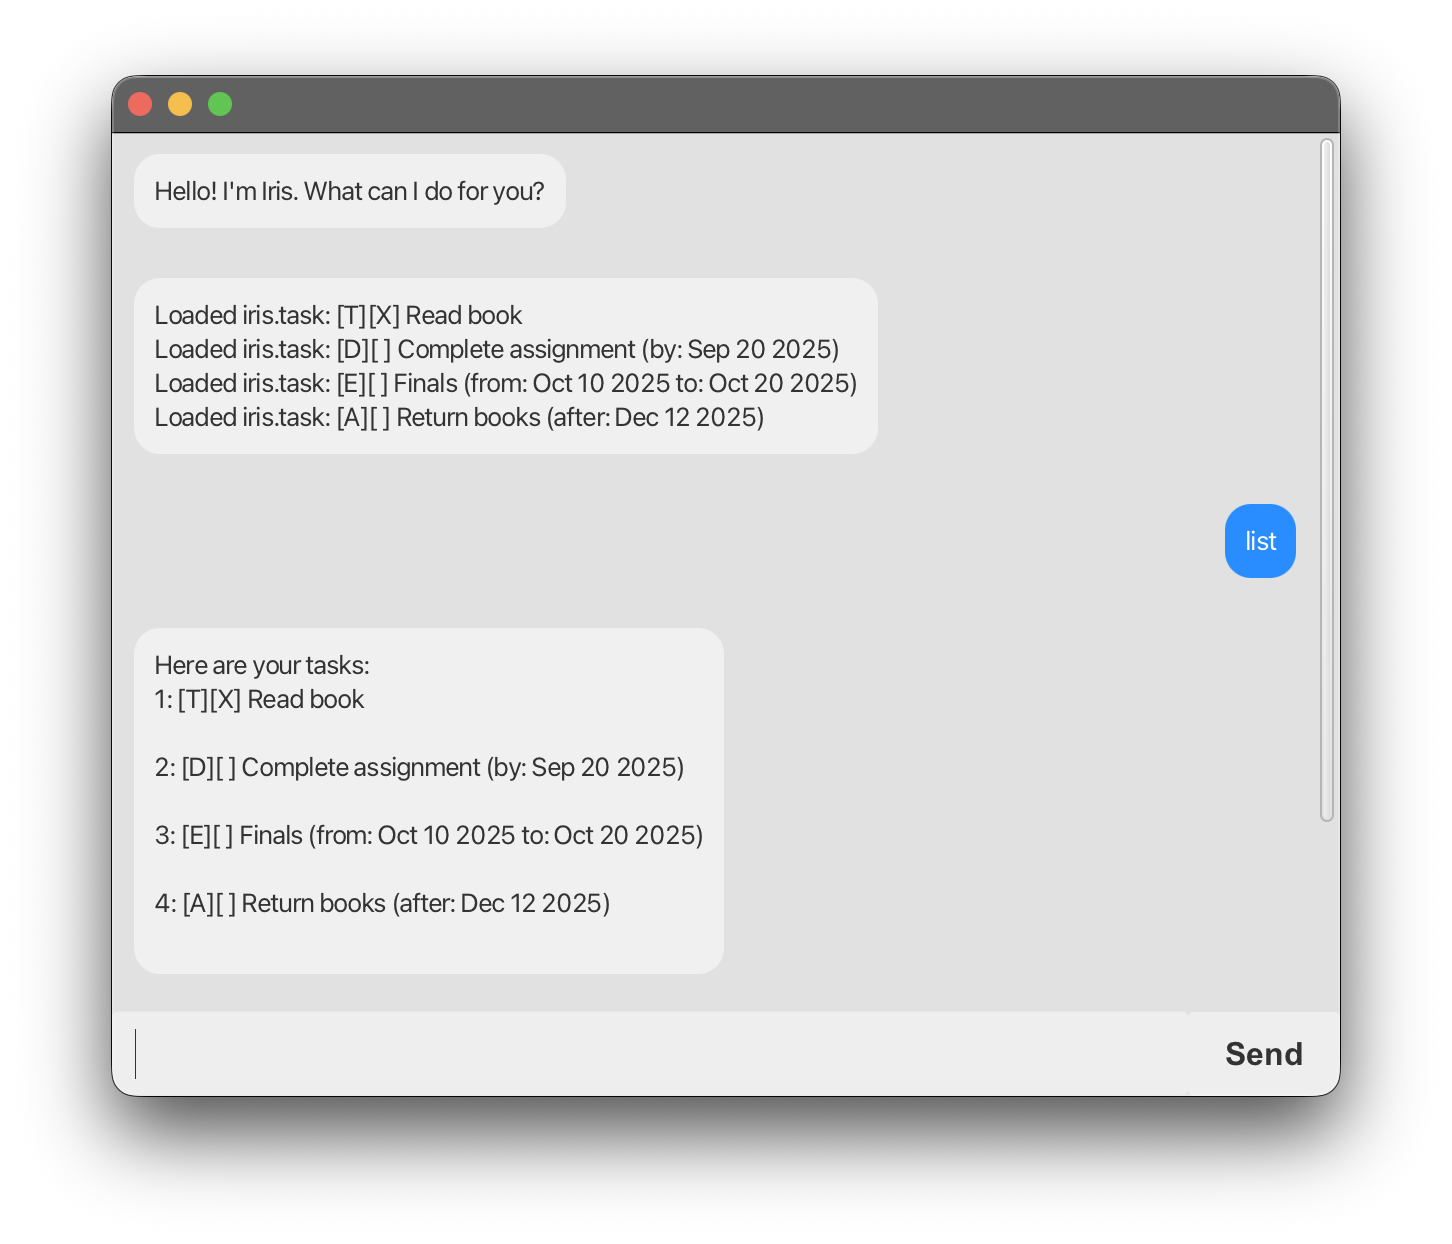
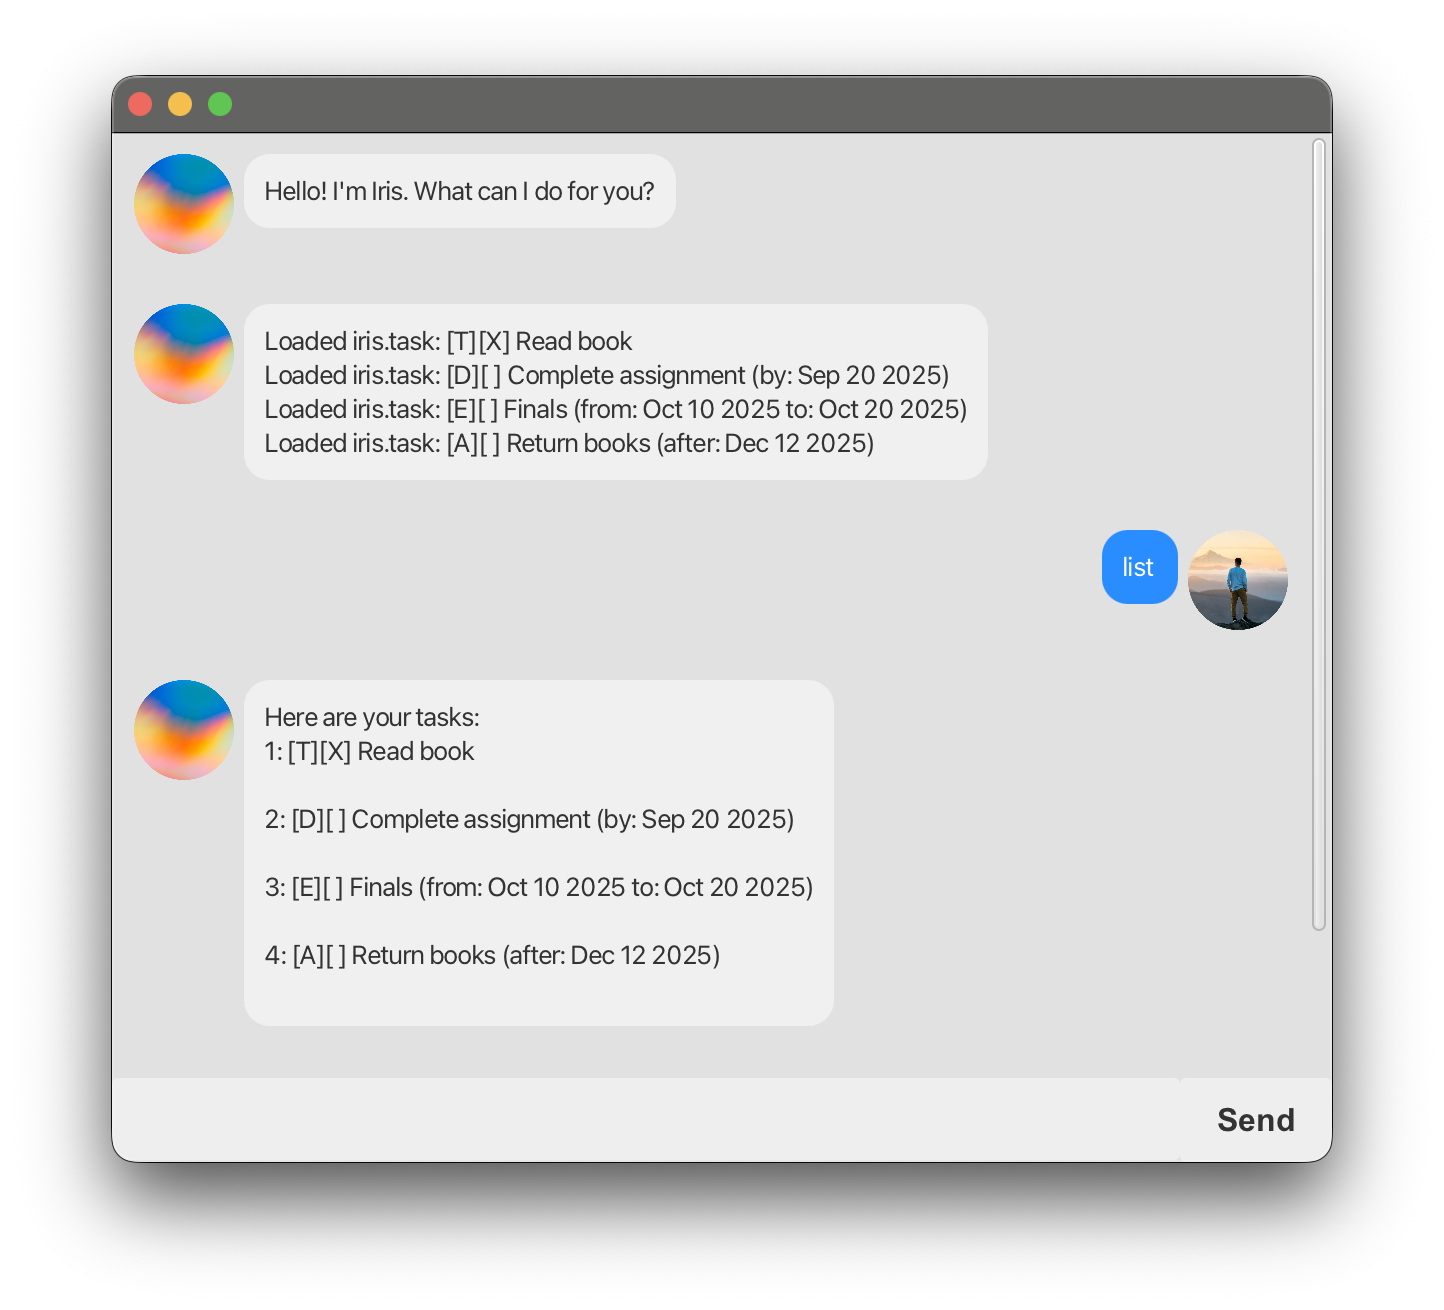
Add user and assistant pictures to UI

Changed region(s): [[0.0623, 0.0305, 0.9349, 0.7026], [0.0935, 0.5193, 0.5609, 0.7331], [0.0623, 0.8248, 0.9349, 0.8859]]

diff --git a/src/main/java/iris/ui/DialogBox.java b/src/main/java/iris/ui/DialogBox.java
@@ -3,10 +3,15 @@ package iris.ui;
 import java.io.IOException;
 
 import iris.MainWindow;
+import javafx.collections.FXCollections;
+import javafx.collections.ObservableList;
 import javafx.fxml.FXML;
 import javafx.fxml.FXMLLoader;
 import javafx.geometry.Pos;
+import javafx.scene.Node;
 import javafx.scene.control.Label;
+import javafx.scene.image.Image;
+import javafx.scene.image.ImageView;
 import javafx.scene.layout.HBox;
 
 /**
@@ -15,6 +20,12 @@ import javafx.scene.layout.HBox;
 public class DialogBox extends HBox {
     @FXML
     private Label dialog;
+
+    @FXML
+    private ImageView displayPicture;
+
+    private Image userImage = new Image(this.getClass().getResourceAsStream("/images/user.png"));
+    private Image assistantImage = new Image(this.getClass().getResourceAsStream("/images/iris.png"));
 
     /**
      * Constructor for DialogBox.
@@ -34,10 +45,15 @@ public class DialogBox extends HBox {
         dialog.setText(text);
 
         if (isUser) {
+            displayPicture.setImage(userImage);
             this.setAlignment(Pos.TOP_RIGHT);
             this.getChildren().get(0).getStyleClass().add("user-label");
         } else {
+            displayPicture.setImage(assistantImage);
             this.setAlignment(Pos.TOP_LEFT);
+            ObservableList<Node> tmp = FXCollections.observableArrayList(this.getChildren());
+            FXCollections.reverse(tmp);
+            this.getChildren().setAll(tmp);
         }
     }
 }
